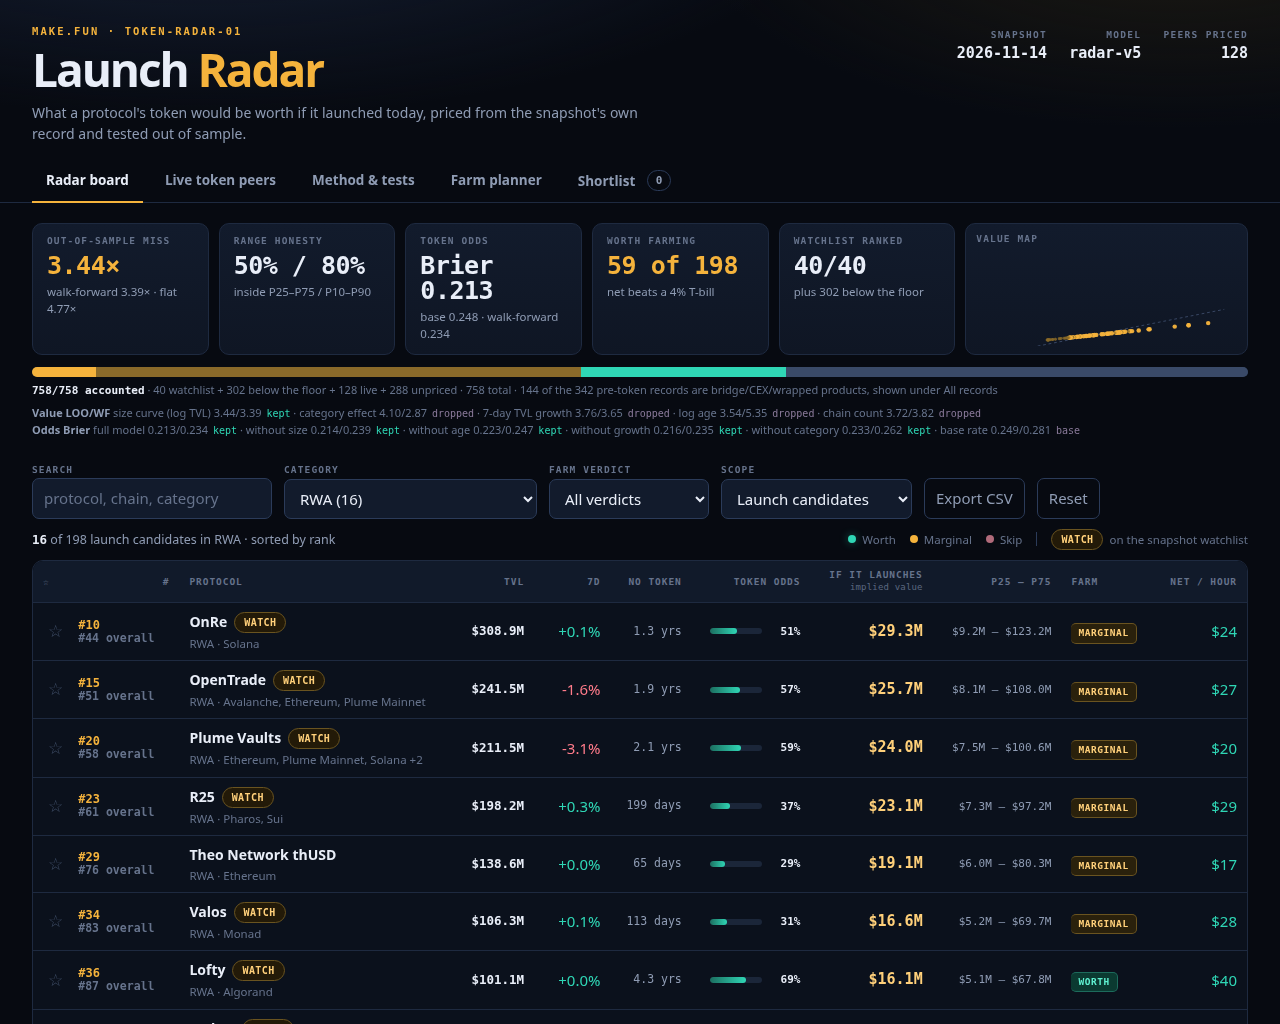
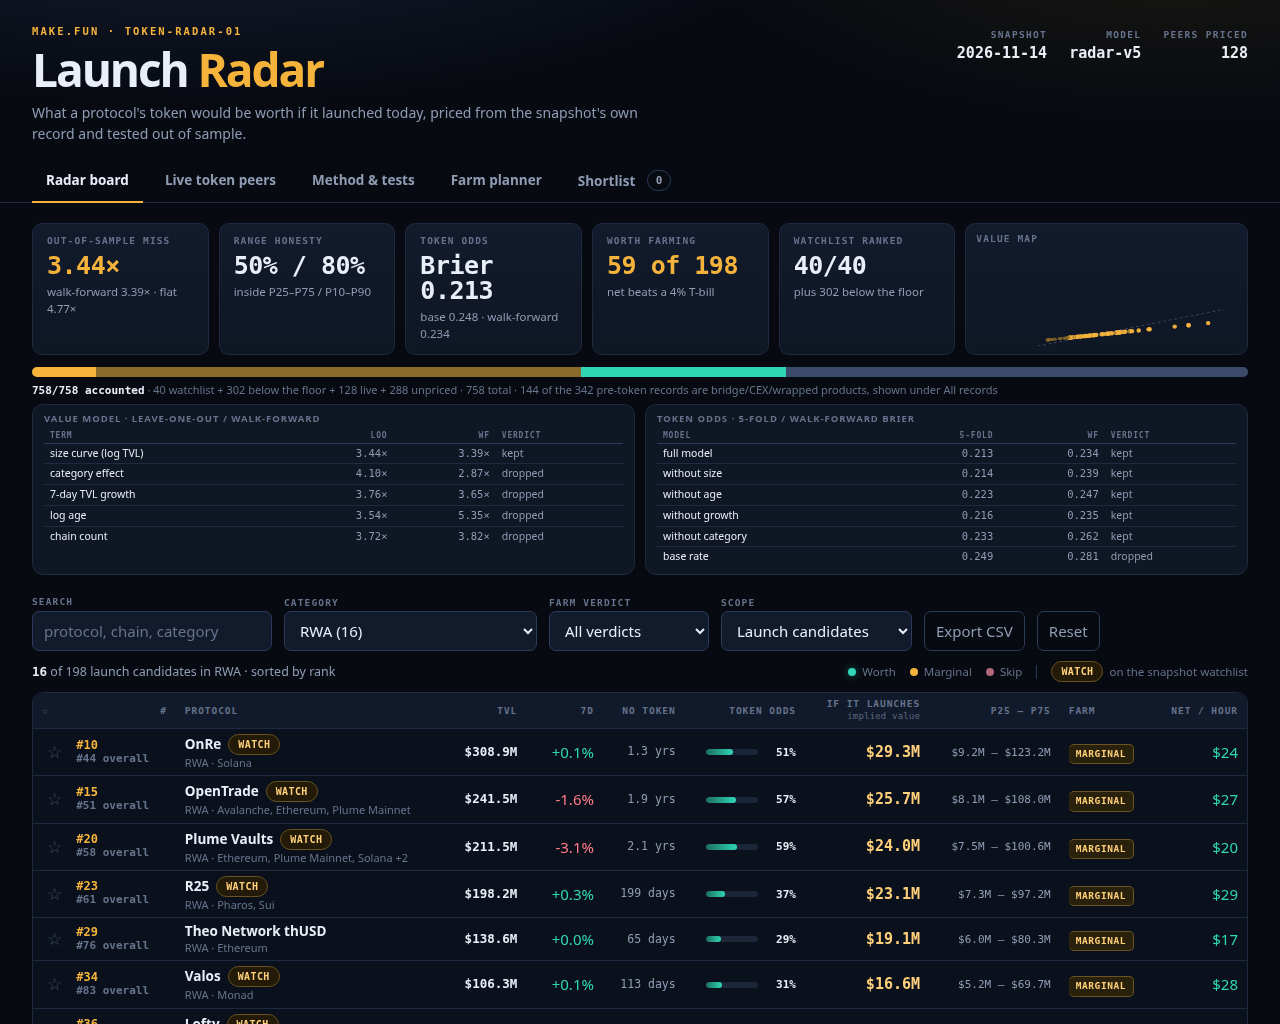
Move the full term tests onto the board and tighten the table
Put the value and odds term tables above the board table, densify the
rows, and keep the planner as the fourth screenshot. Source 64.6KB of
the 65.5KB cap.

diff --git a/dashboard/app.js b/dashboard/app.js
@@ -149,24 +149,21 @@
     legend.appendChild(el('b', null, '758/758 accounted'));
     legend.appendChild(document.createTextNode(' · ' + c.watchlist + ' watchlist + ' + (c.preToken - c.watchlist) + ' below the floor + ' + c.live + ' live + ' + c.unpriced + ' unpriced · ' + (c.watchlist + c.preToken - c.watchlist + c.live + c.unpriced) + ' total · 144 of the 342 pre-token records are bridge/CEX/wrapped products, shown under All records'));
     line.appendChild(legend);
-    var contract = $('#contract');
-    contract.replaceChildren();
-    var vline = el('div', 'evLine');
-    vline.appendChild(el('b', null, 'Value LOO/WF '));
-    v.terms.forEach(function (t, i) {
-      if (i) vline.appendChild(document.createTextNode(' · '));
-      vline.appendChild(document.createTextNode(t.term + ' ' + t.loo.toFixed(2) + '/' + t.wf.toFixed(2) + ' '));
-      vline.appendChild(el('i', t.kept ? 'up' : 'flat', t.kept ? 'kept' : 'dropped'));
-    });
-    contract.appendChild(vline);
-    var oline = el('div', 'evLine');
-    oline.appendChild(el('b', null, 'Odds Brier '));
-    o.terms.forEach(function (t, i) {
-      if (i) oline.appendChild(document.createTextNode(' · '));
-      oline.appendChild(document.createTextNode(t.term + ' ' + t.loo.toFixed(3) + '/' + t.wf.toFixed(3) + ' '));
-      oline.appendChild(el('i', t.kept ? 'up' : 'flat', t.kept ? 'kept' : 'base'));
-    });
-    contract.appendChild(oline);
+    function fillTerms(tbody, terms, digits, keepWord) {
+      if (!tbody) return;
+      tbody.replaceChildren();
+      terms.forEach(function (t) {
+        var tr = el('tr');
+        tr.appendChild(el('td', null, t.term));
+        tr.appendChild(el('td', 'num', t.loo.toFixed(digits) + (digits === 2 ? '×' : '')));
+        tr.appendChild(el('td', 'num', t.wf.toFixed(digits) + (digits === 2 ? '×' : '')));
+        tr.appendChild(el('td', t.kept ? 'up' : 'flat', t.kept ? keepWord : (keepWord === 'kept' ? 'dropped' : 'base')));
+        tr.title = t.note;
+        tbody.appendChild(tr);
+      });
+    }
+    fillTerms($('#bValue tbody'), v.terms, 2, 'kept');
+    fillTerms($('#bOdds tbody'), o.terms, 3, 'kept');
   }
 
   // ---------- board ----------
@@ -593,29 +590,7 @@
   function renderMethod() {
     var v = R.model.value, o = R.model.odds;
     $('#valueEq').textContent = 'a = ' + v.intercept.toFixed(3) + ', b = ' + v.slope.toFixed(3) + '; multiple at $100M = ' + v.multipleAt100m.toFixed(3) + '×. Flat baseline misses by ' + v.baselineLoo.toFixed(2) + '× / ' + v.baselineWf.toFixed(2) + '×.';
-    var vt = $('#valueTerms tbody');
-    vt.replaceChildren();
-    v.terms.forEach(function (t) {
-      var tr = el('tr');
-      tr.appendChild(el('td', null, t.term));
-      tr.appendChild(el('td', 'num', t.loo.toFixed(2) + '×'));
-      tr.appendChild(el('td', 'num', t.wf.toFixed(2) + '×'));
-      tr.appendChild(el('td', t.kept ? 'up' : 'flat', t.kept ? 'kept' : 'tested, dropped'));
-      tr.title = t.note;
-      vt.appendChild(tr);
-    });
     $('#oddsEq').textContent = 'Base rate ' + (o.baseRate * 100).toFixed(1) + '%. Brier ' + o.brier.toFixed(3) + ' vs ' + o.brierBase.toFixed(3) + ' base; walk-forward ' + o.brierWf.toFixed(3) + ' vs ' + o.brierWfBase.toFixed(3) + '.';
-    var ot = $('#oddsTerms tbody');
-    ot.replaceChildren();
-    o.terms.forEach(function (t) {
-      var tr = el('tr');
-      tr.appendChild(el('td', null, t.term));
-      tr.appendChild(el('td', 'num', t.loo.toFixed(3)));
-      tr.appendChild(el('td', 'num', t.wf.toFixed(3)));
-      tr.appendChild(el('td', t.kept ? 'up' : 'flat', t.kept ? 'kept' : 'tested, dropped'));
-      tr.title = t.note;
-      ot.appendChild(tr);
-    });
     $('#rangeText').textContent = 'P25–P75 ran ' + v.bands.p25.toFixed(2) + '× to ' + v.bands.p75.toFixed(2) + '× of the point estimate and covered ' + Math.round(v.coverage.p25 * 100) + '% of ' + v.coverage.n + ' held-out protocols. P10–P90 ran ' + v.bands.p10.toFixed(2) + '× to ' + v.bands.p90.toFixed(2) + '× and covered ' + Math.round(v.coverage.p10 * 100) + '%.';
     var rr = $('#rangeRow');
     rr.replaceChildren();

diff --git a/dashboard/app.css b/dashboard/app.css
@@ -77,7 +77,7 @@ button.ghost:hover{color:var(--text);border-color:var(--amber)}
 .dot.v-skip{background:#b06a7a}
 .tableWrap{border:1px solid var(--line);border-radius:11px;overflow:auto;max-height:calc(100vh - 390px);background:#0b111c}
 table{border-collapse:collapse;width:100%;min-width:1180px}
-th,td{padding:8px 10px;text-align:left;border-bottom:1px solid var(--line);vertical-align:middle}
+th,td{padding:5px 9px;text-align:left;border-bottom:1px solid var(--line);vertical-align:middle}
 th{position:sticky;top:0;z-index:2;background:#111a2a;font:600 9.5px/1.2 var(--mono);letter-spacing:.1em;text-transform:uppercase;color:var(--dim);white-space:nowrap;cursor:pointer;user-select:none}
 th small{display:block;font:500 9px/1.3 var(--mono);letter-spacing:.02em;text-transform:none;color:#5b6880;margin-top:2px}
 th:hover{color:var(--text)}
@@ -89,9 +89,9 @@ tbody tr:hover{background:#121c2e}
 tbody tr:last-child td{border-bottom:0}
 td.rank{font:600 12px/1 var(--mono);color:var(--dim)}
 td.rank b{color:var(--amber)}
-.name{font-weight:650;font-size:14px}
+.name{font-weight:650;font-size:13.5px;line-height:1.25}
 .name .chip{margin-left:7px;vertical-align:1px}
-.subline{margin-top:2px;color:var(--dim);font-size:11.5px;max-width:300px;overflow:hidden;text-overflow:ellipsis;white-space:nowrap}
+.subline{margin-top:1px;color:var(--dim);font-size:11px;line-height:1.3;max-width:300px;overflow:hidden;text-overflow:ellipsis;white-space:nowrap}
 td.money{font:600 12.5px/1 var(--mono)}
 td.implied{font:700 15px/1 var(--mono);color:var(--amber2)}
 td.multiple{font:500 12.5px/1 var(--mono)}
@@ -204,3 +204,10 @@ table.mini td.num{font-family:var(--mono)}
 .planTotals{grid-template-columns:repeat(6,1fr)}
 .planList{margin-top:8px}
 @media (max-width:1100px){.planTotals{grid-template-columns:repeat(3,1fr)}}
+
+.boardModel{display:grid;grid-template-columns:1fr 1fr;gap:10px;margin:0 0 10px}
+.boardModel .panel{padding:7px 11px}
+.boardModel h3{font-size:9.5px;letter-spacing:.1em;text-transform:uppercase;color:var(--dim);margin:0 0 3px}
+.boardModel table.mini th{padding:2px 6px;font-size:8px}
+.boardModel table.mini td{padding:2px 6px;font-size:10.5px}
+@media (max-width:1100px){.boardModel{grid-template-columns:1fr}}

diff --git a/dashboard/index.html b/dashboard/index.html
@@ -34,7 +34,10 @@
 <main id="main" tabindex="-1">
   <section id="kpis" class="kpis" aria-label="Model summary"></section>
   <p id="statusLine" class="statusline"></p>
-  <div id="contract" class="contract"></div>
+  <div id="contract" class="boardModel">
+    <article class="panel"><h3>Value model · leave-one-out / walk-forward</h3><table class="mini" id="bValue"><thead><tr><th>Term</th><th class="num">LOO</th><th class="num">WF</th><th>Verdict</th></tr></thead><tbody></tbody></table></article>
+    <article class="panel"><h3>Token odds · 5-fold / walk-forward Brier</h3><table class="mini" id="bOdds"><thead><tr><th>Model</th><th class="num">5-fold</th><th class="num">WF</th><th>Verdict</th></tr></thead><tbody></tbody></table></article>
+  </div>
 
   <section id="boardView">
     <div class="toolbar">
@@ -112,15 +115,13 @@
         <h3>The value model</h3>
         <p class="eq">implied = TVL × exp(a + b × ln TVL)</p>
         <p class="muted" id="valueEq"></p>
-        <table class="mini" id="valueTerms"><thead><tr><th>Term</th><th class="num">Leave-one-out</th><th class="num">Walk-forward</th><th>Verdict</th></tr></thead><tbody></tbody></table>
-        <p class="muted">Kept terms are in the final model; the rest were tested and dropped. A flat multiple is the baseline every term must beat.</p>
+        <p class="muted">The term-by-term results are on the board. Kept terms are in the final model; the rest were tested and dropped.</p>
       </article>
       <article class="panel formula">
         <h3>The token odds</h3>
         <p class="eq">odds = logistic(size, age, growth, category rate)</p>
         <p class="muted" id="oddsEq"></p>
-        <table class="mini" id="oddsTerms"><thead><tr><th>Model</th><th class="num">5-fold Brier</th><th class="num">Walk-forward</th><th>Verdict</th></tr></thead><tbody></tbody></table>
-        <p class="muted">Lower Brier is better. Each row removes one term from the full model; a term is kept when removing it makes both tests worse. The base rate is the benchmark.</p>
+        <p class="muted">Lower Brier is better; the board shows the term-by-term ablation and the base rate.</p>
       </article>
     </div>
     <article class="panel chartWide">
